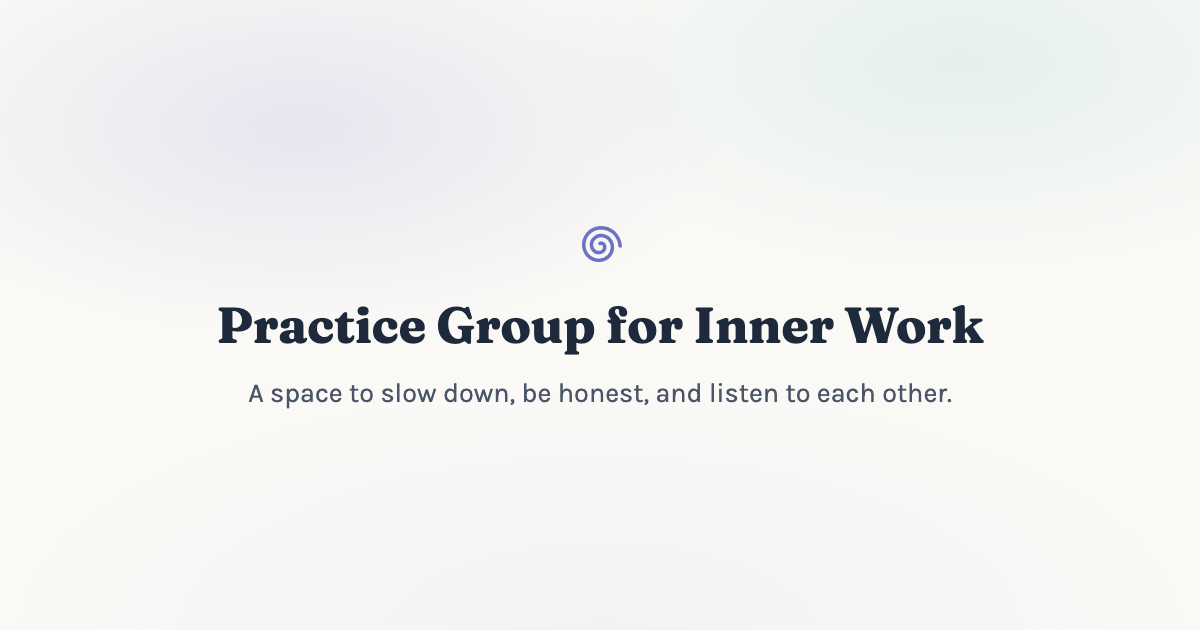
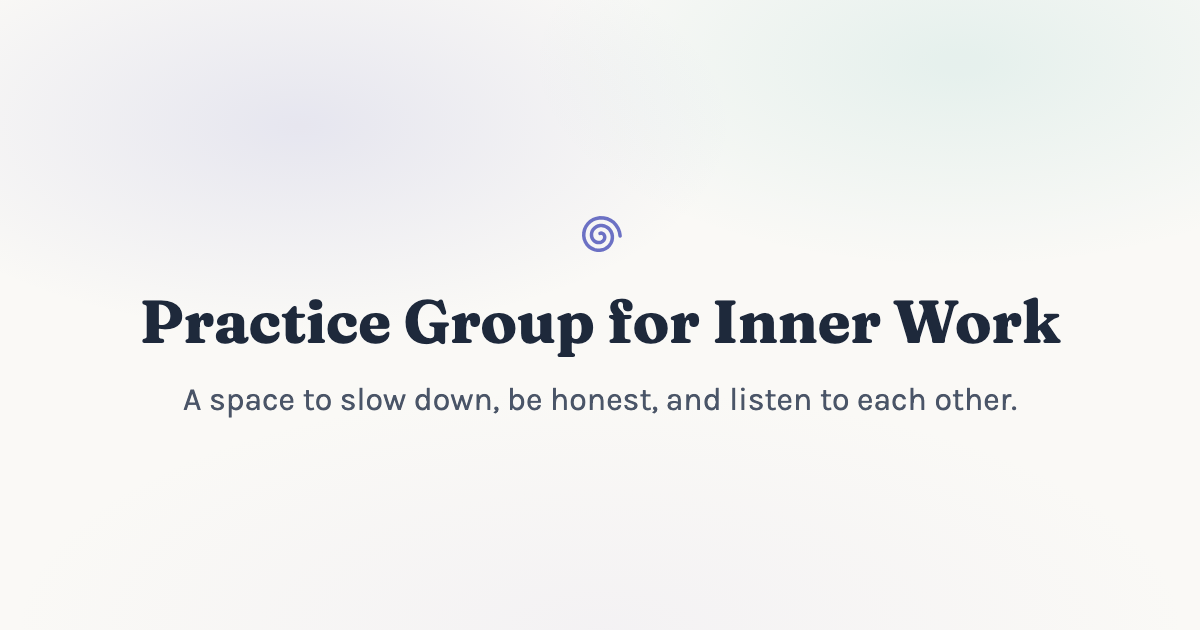
update cover image for blog post

Changed region(s): [[0.1233, 0.4524, 0.8942, 0.573], [0.1542, 0.6032, 0.8325, 0.6635], [0.4625, 0.3317, 0.5242, 0.4222]]

diff --git a/src/consts.ts b/src/consts.ts
@@ -2,4 +2,5 @@
 // You can import this data from anywhere in your site by using the `import` keyword.
 
 export const SITE_TITLE = 'Practice Group for Inner Work';
-export const SITE_DESCRIPTION = "A space to slow down, be honest, and listen to each other.";
+export const SITE_DESCRIPTION =
+  "A weekly online practice group for inner work — a space to slow down, be honest, and listen to each other through guided check-ins and triads.";
